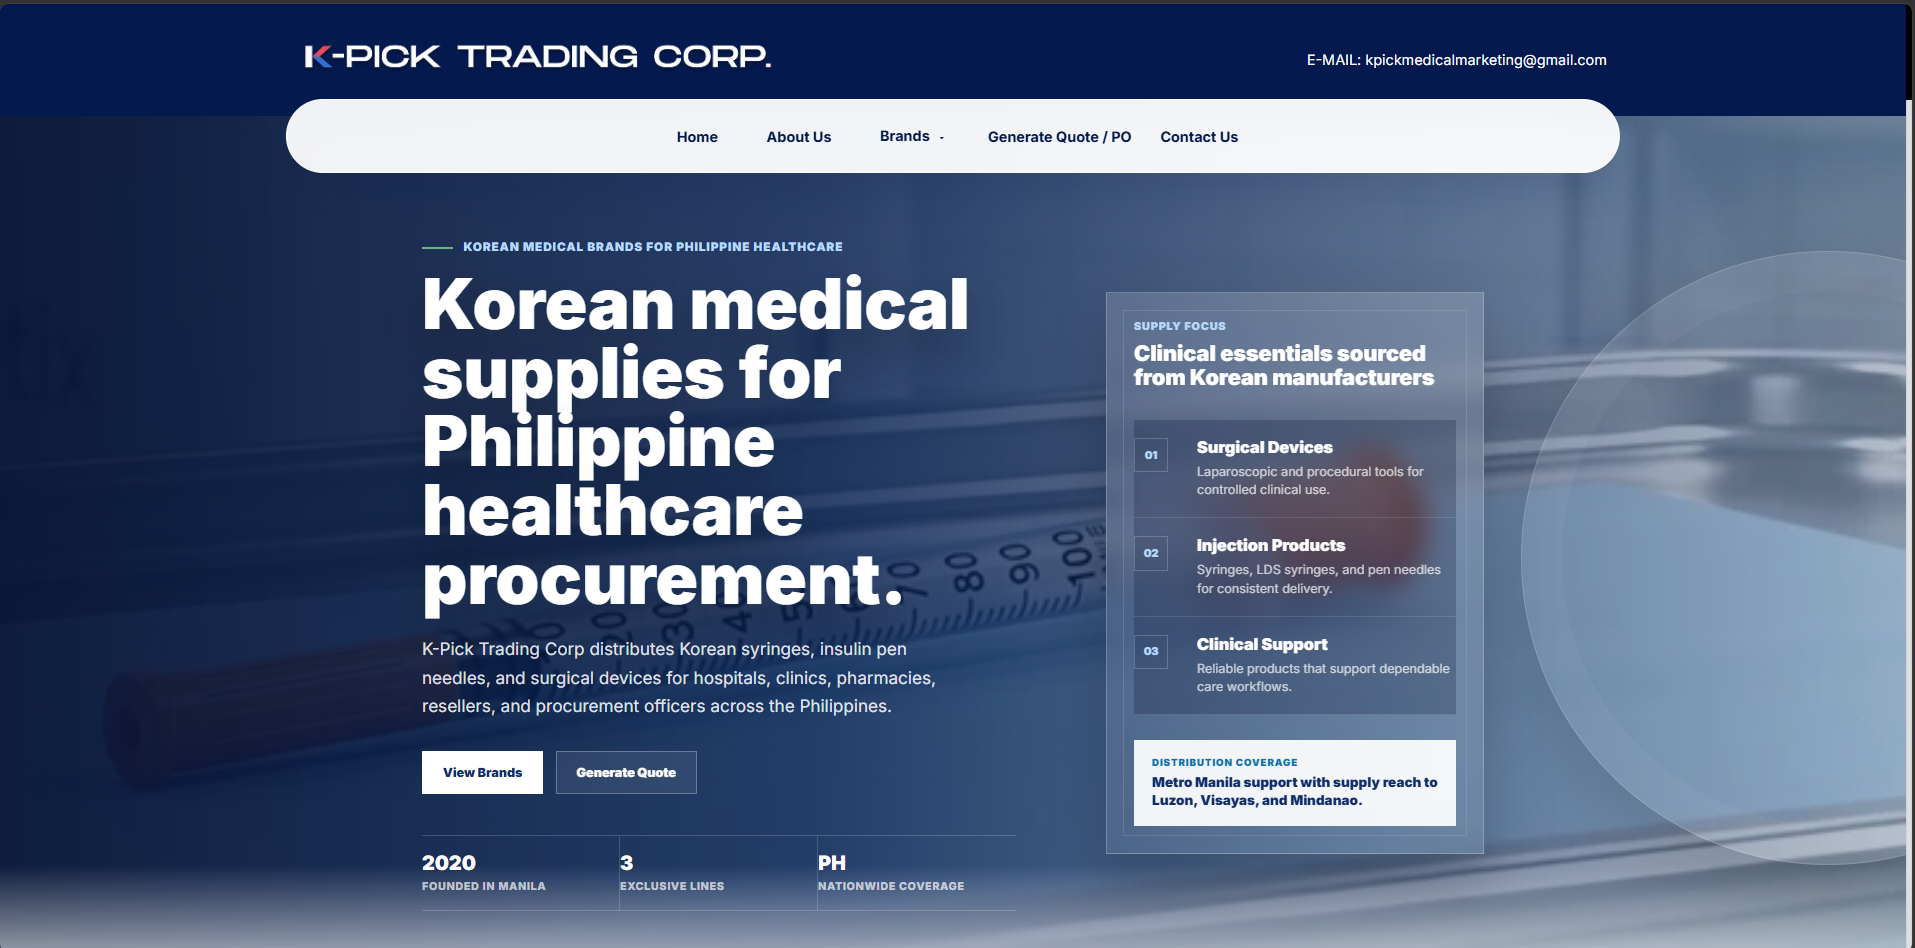
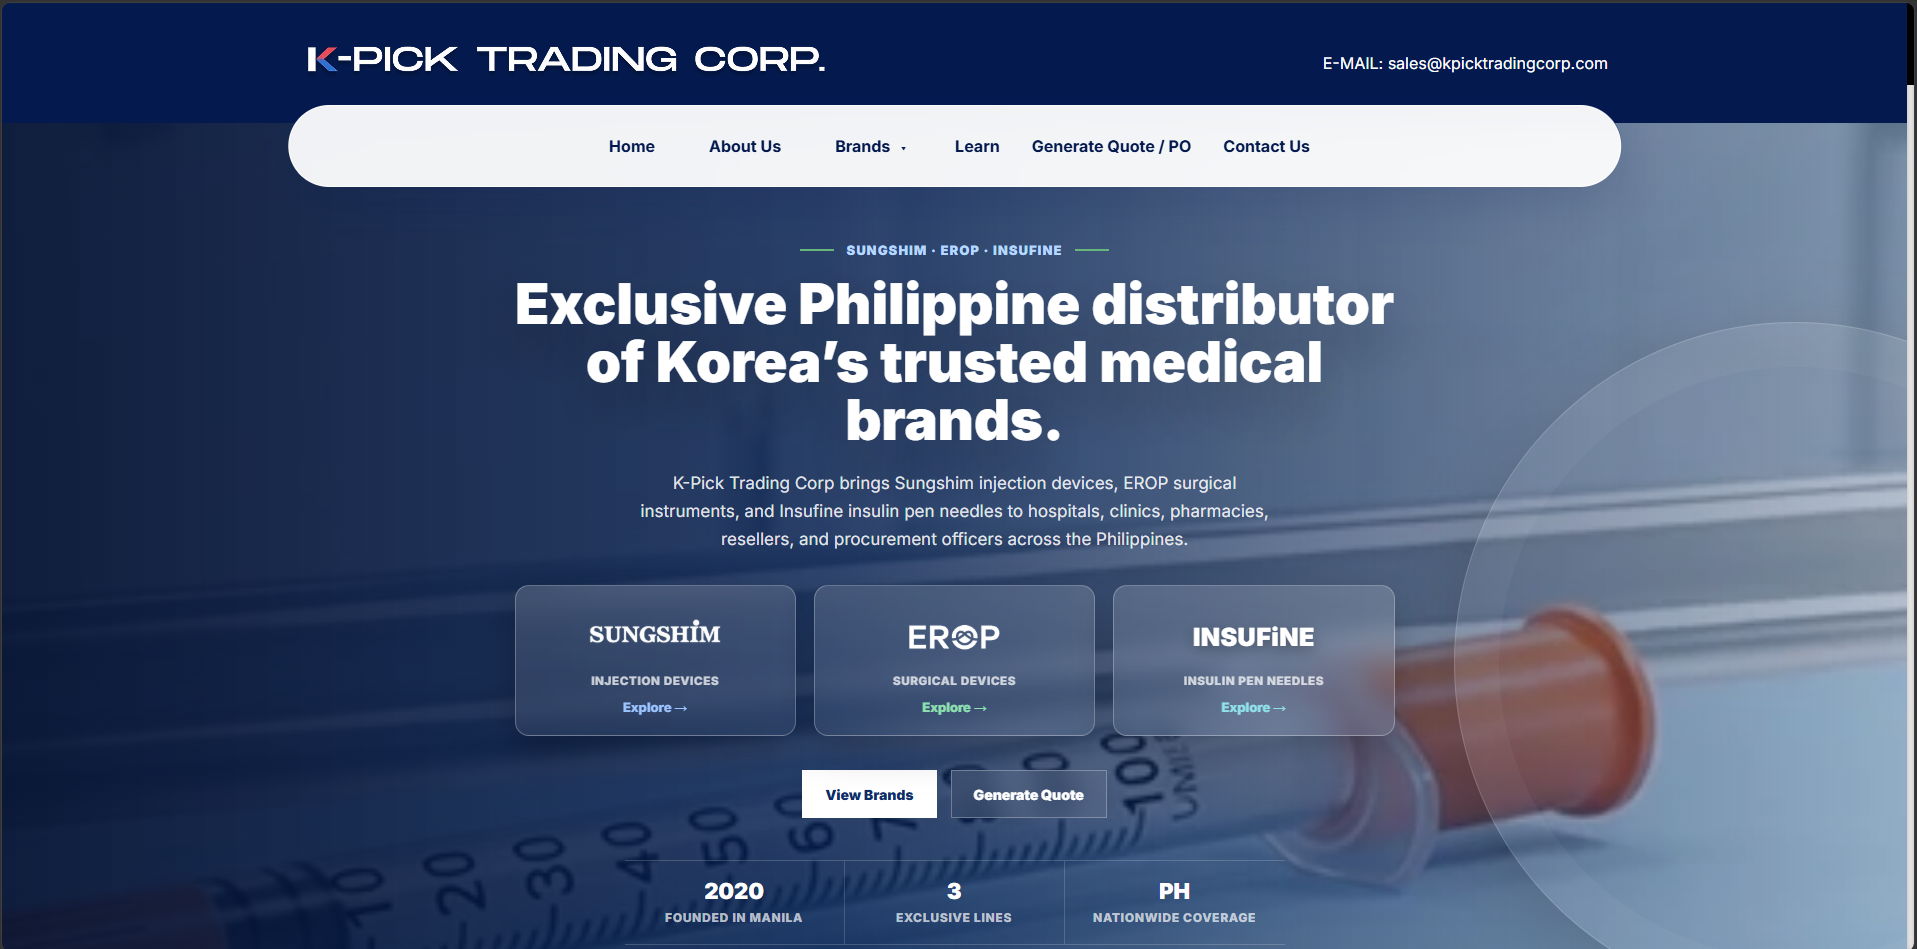
PortfolioUpdate721

diff --git a/index.html b/index.html
@@ -151,7 +151,7 @@
           <p>
             I'm a <strong>Systems &amp; Automation Engineer</strong> at K-Pick Trading Corp, a Korean medical supplies distributor operating across the Philippines. My job is to build the systems the business runs on — not as a side project, but as the primary infrastructure their teams use every day.
             <br><br>
-            I've built a <strong>real-time dispatch system</strong> (Node.js + Socket.IO) that coordinates Shopee Instant Delivery orders across office and packing staff. A <strong>PostgreSQL-backed ERP prototype</strong> (FastAPI + Docker) that replaces Excel-based inventory tracking with a proper stock movement ledger and multi-platform order import. A <strong>Telegram bot</strong> (Python + Ollama + Google Sheets API) that lets staff query live inventory in plain English using a locally-hosted LLM. And the company's <strong>public website</strong> for their exclusive Korean medical brands.
+            I've built a <strong>real-time dispatch system</strong> (Node.js + Socket.IO) that coordinates Shopee Instant Delivery orders across office and packing staff. A <strong>PostgreSQL-backed ERP-lite</strong> (FastAPI) in daily dry-run use — a stock movement ledger, multi-platform order import, a barcode-scan packing pipeline, and finance dashboards replacing Excel-based inventory tracking. A <strong>Telegram bot</strong> (Python + Ollama + Google Sheets API) that lets staff query live inventory in plain English using a locally-hosted LLM. And the company's <strong>public website</strong> at kpicktradingcorp.com for their exclusive Korean medical brands.
             <br><br>
             The tools change by project — <strong>Excel VBA</strong>, <strong>SQL</strong>, <strong>Python</strong>, <strong>Node.js</strong>, <strong>FastAPI</strong> — but the goal is always the same: understand how the operation actually works, find where it breaks down, and build something the team adopts without being told to.
           </p>
@@ -307,9 +307,9 @@
             <p><em>Kpick Trading Corporation — Korean medical supplies distributor, Philippines</em></p>
             <p>
               - Built and deployed the <strong>Shopee Dispatch Display System</strong>: a real-time Node.js + Socket.IO web app that coordinates Shopee Instant Delivery orders across office and packing staff, with audio alerts, 5-stage status tracking, nudge system for urgent orders, and JSON persistence through server restarts<br>
-              - Built the <strong>Kpick ERP-lite</strong>: PostgreSQL + FastAPI inventory backend with product master, BOX/PC unit conversion, stock movement ledger, multi-platform order import (Shopee, Lazada, TikTok), and duplicate order detection across 3-day windows<br>
+              - Built the <strong>Kpick ERP-lite</strong>: PostgreSQL + FastAPI inventory and operations system — stock movement ledger, multi-platform order import (Shopee, Lazada, TikTok) with duplicate detection, barcode-scan packing pipeline, finance and executive dashboards, and automated DOCX daily reports — now in daily dry-run use processing 500–600 orders/day<br>
               - Built the <strong>Kpick Telegram Inventory Bot</strong>: Python bot connecting Telegram, Google Sheets, and a locally-hosted LLM (Ollama/Qwen 2.5 on Mac Mini) for plain-English staff inventory queries with safe AI architecture<br>
-              - Built <strong>kpicktradingcorp.com</strong>: company website for three exclusive Korean medical brands (Sungshim, EROP, Hansol), including product pages and a quote/PO request system<br>
+              - Built and deployed <strong>kpicktradingcorp.com</strong>: 20+ page company website for three exclusive Korean medical brands (Sungshim, EROP, Insufine), with product detail pages, an interactive Learning Centre, and a quote/PO generation system with PDF output<br>
               - Redesigned inventory transaction workflows previously avoided by staff — resulting in full team adoption
             </p>
           </div>
@@ -538,9 +538,9 @@
                 <div class="csf-icon-wrap"><i class="bi bi-server"></i></div>
                 <div>
                   <span class="case-file-label">coffee_erp_db/</span>
-                  <h4 class="csf-title">Kpick ERP-lite — Inventory Backend</h4>
+                  <h4 class="csf-title">Kpick ERP-lite — Inventory &amp; Operations System</h4>
                   <div class="csf-tags">
-                    <span>PostgreSQL</span><span>FastAPI</span><span>Python</span><span>Docker</span><span>Shopee · Lazada · TikTok import</span>
+                    <span>PostgreSQL 18</span><span>FastAPI</span><span>Python</span><span>Role-based auth</span><span>Shopee · Lazada · TikTok import</span><span>Barcode scanning</span>
                   </div>
                 </div>
               </div>
@@ -551,11 +551,11 @@
                 </div>
                 <div class="csf-col">
                   <span class="case-key">What I Built</span>
-                  <p>A PostgreSQL-backed ERP prototype with a FastAPI REST API and Docker Compose setup. Features: product master with parent/child SKUs, BOX-to-PC unit conversion, stock movement ledger (stock is never edited directly — all changes go through movements), multi-platform picklist import (Shopee, Lazada, TikTok), duplicate order detection across 3-day windows, learned platform-to-product mappings, and staff user accounts. Seeded from the live Excel workbook.</p>
+                  <p>A PostgreSQL 18 + FastAPI system covering the full operation: product master with BOX-to-PC unit conversion, an append-only stock movement ledger (stock is never edited directly), multi-platform packing-list import (Shopee, Lazada, TikTok) with duplicate detection against every confirmed order, an order-management packing board (pending → packing → packed) with a mobile barcode Checker Mode for warehouse phones, per-staff scan leaderboards and an error accountability log, returns/cancellations with reversal movements, direct SDD sales, a finance module (KRW landed cost, platform fees, freight tiers), an executive dashboard with sales-mix P&amp;L, and one-click DOCX daily and shipment reports. Role-based access with five roles plus admin-editable custom roles.</p>
                 </div>
                 <div class="csf-col">
                   <span class="case-key">Result</span>
-                  <p>Foundation laid for replacing Excel-based inventory tracking with a proper database-backed system. API fully documented, dry-run import logic working across all three platforms, duplicate detection preventing double-processing of orders.</p>
+                  <p>In beta dry-run at K-Pick, running in parallel with the spreadsheets it's replacing — used daily by office and warehouse staff to process 500–600 orders a day through the packing board, with an audit trail on every stock change and a full backup/restore workflow between the live Mac Mini and the dev machine.</p>
                 </div>
               </div>
             </div>
@@ -649,7 +649,7 @@
             <div class="portfolio-info">
               <span class="case-file-label">kpicktradingcorp.com</span>
               <h4>K-Pick Trading Corp Website</h4>
-              <p class="portfolio-sub">Company site for a Korean medical supplies distributor — Sungshim, EROP, Hansol brands. Quote/PO request system, product pages, nationwide B2B coverage.</p>
+              <p class="portfolio-sub">Deployed company site for a Korean medical supplies distributor — exclusive PH distributor of Sungshim, EROP, and Insufine. 20+ pages: brand and product detail pages, an interactive Learning Centre with device-education modules, and a quote/PO generator with PDF output on company letterhead.</p>
               <div class="portfolio-links">
                 <a href="https://kpicktradingcorp.com" target="_blank" rel="noopener" title="Visit Site"><i class="fas fa-external-link-alt"></i></a>
               </div>
